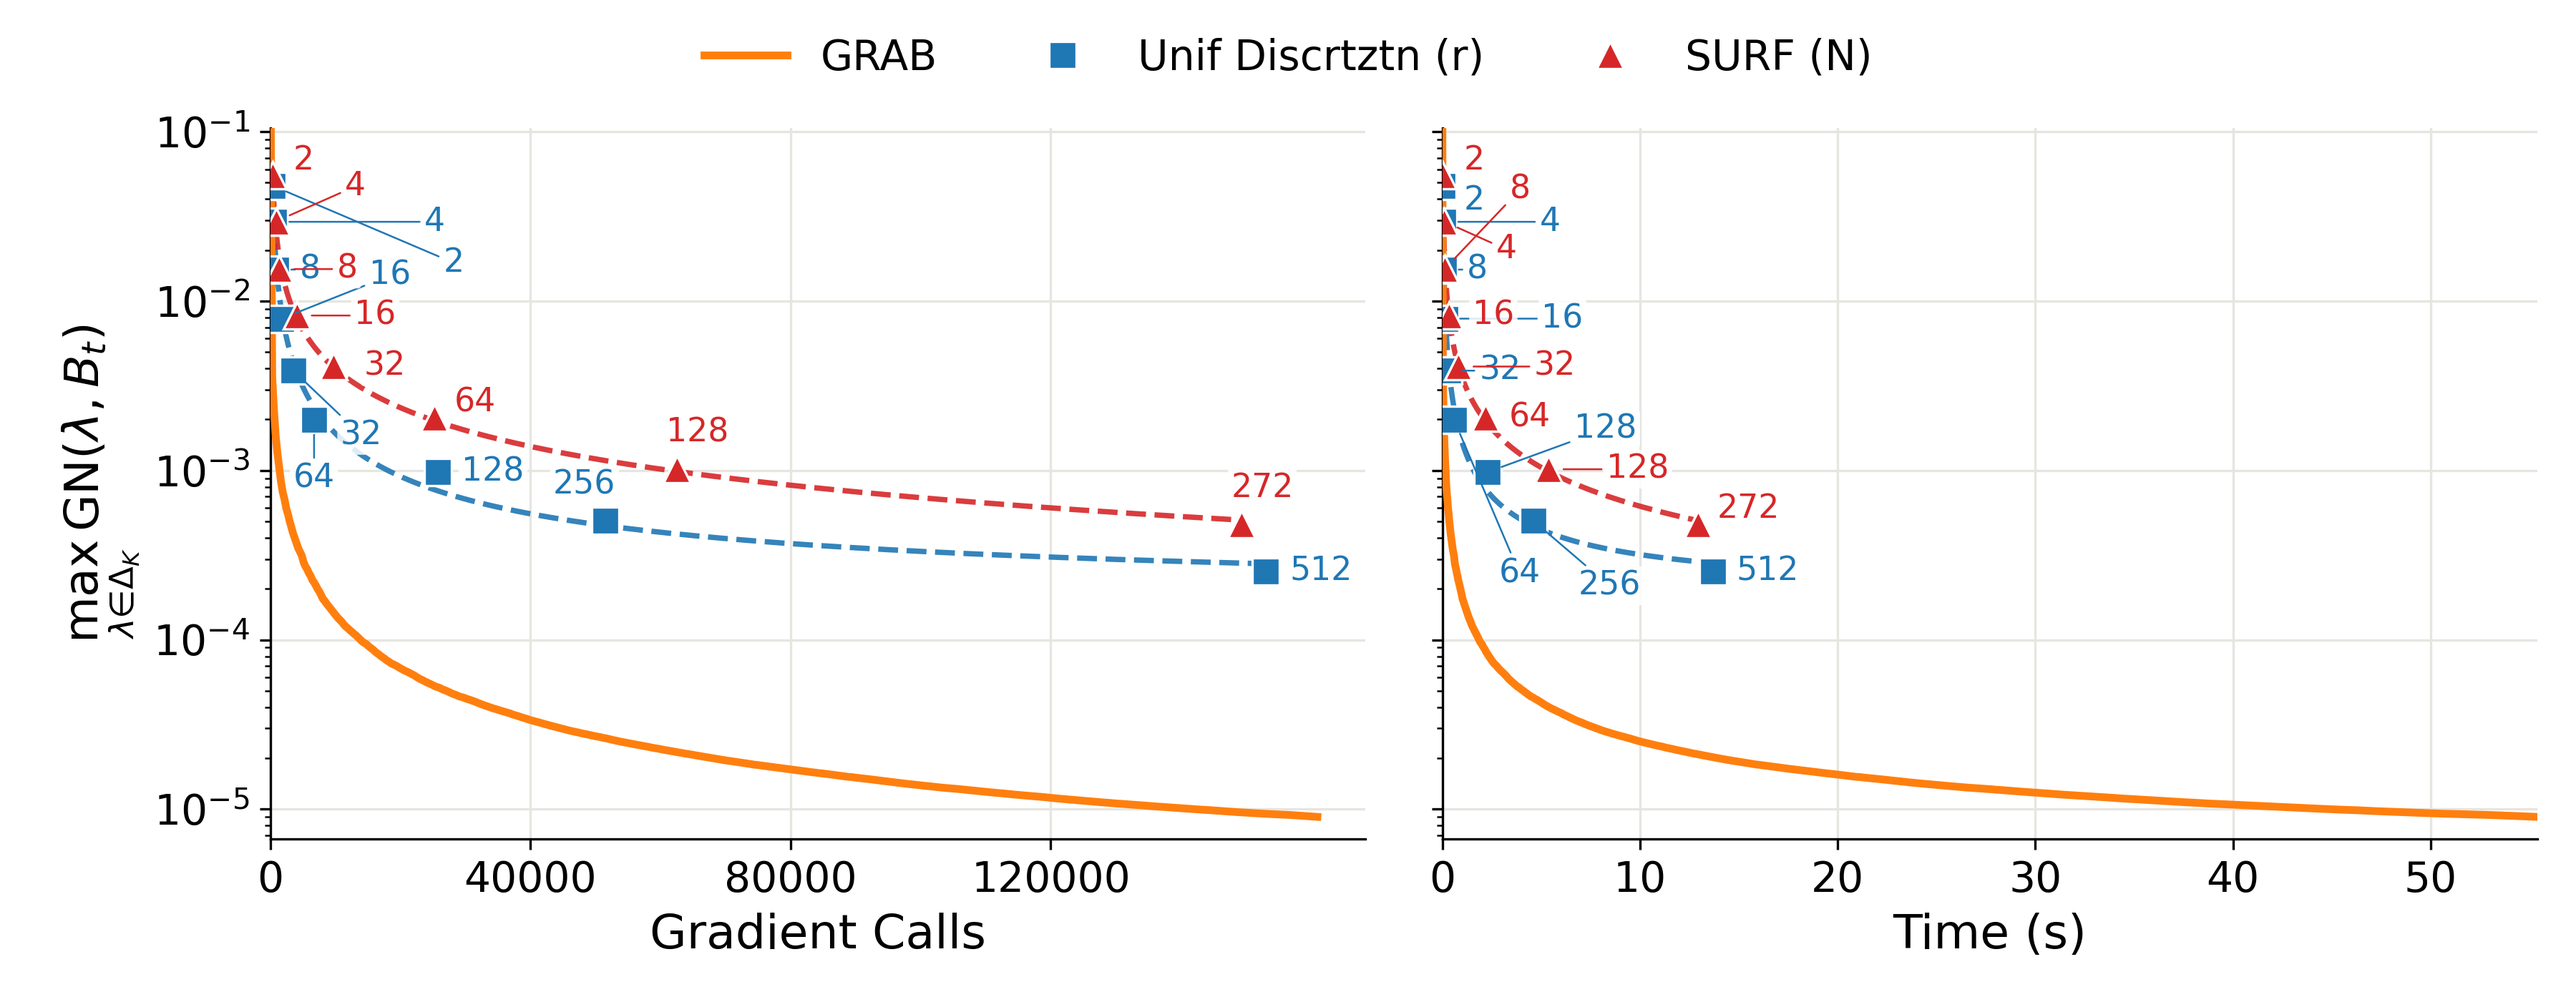
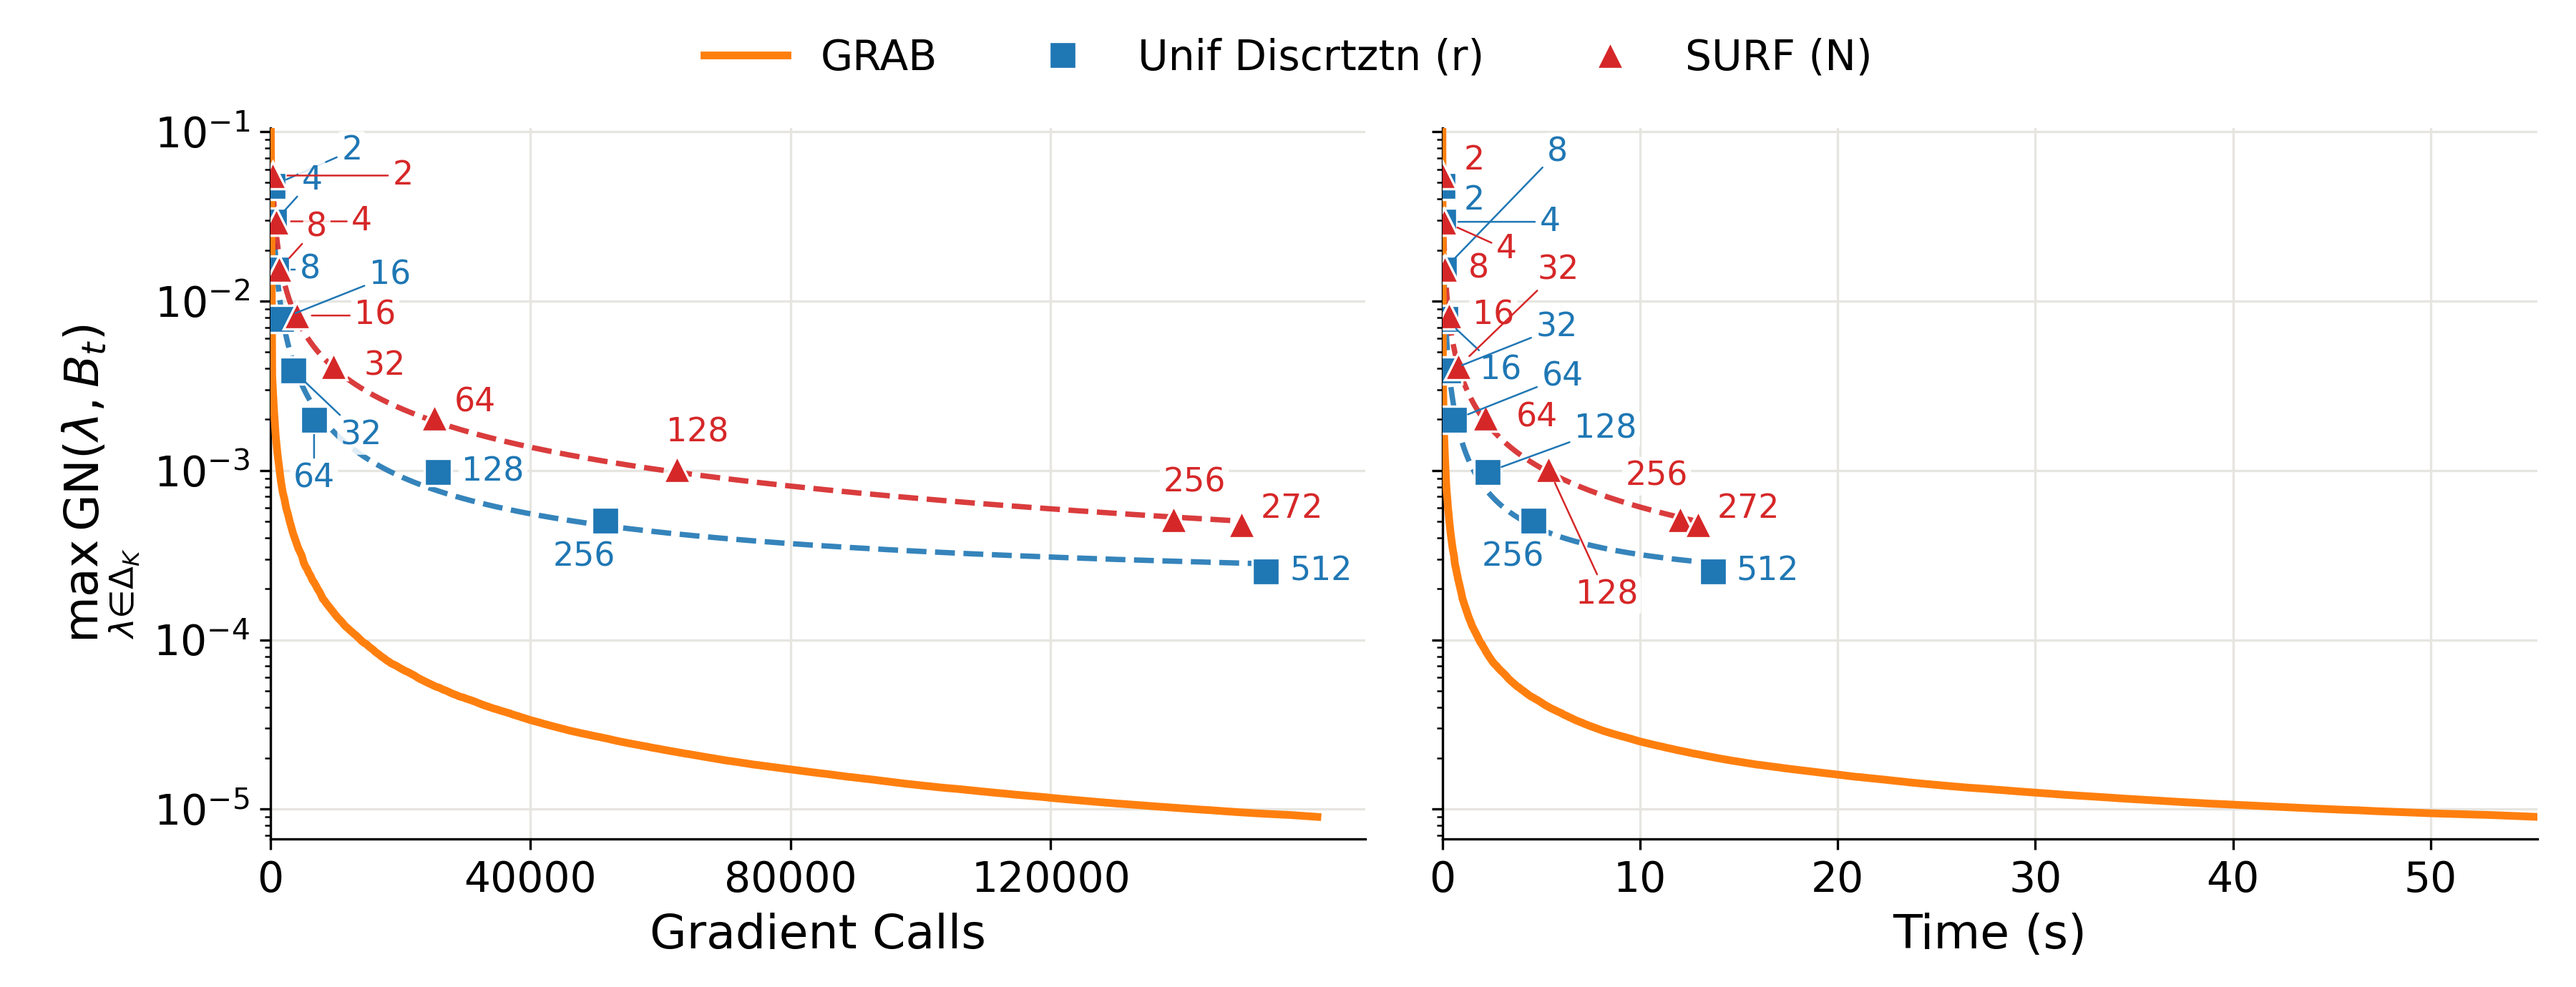
FishWood SURF: add N=256, whose point lies within the budget (GRAB selection unchanged)

diff --git a/mogym/config.py b/mogym/config.py
@@ -16,7 +16,7 @@ MAX_ROUNDS = 1000           # SURF safety cap
 ADAM_KEEP_TOL = .005        # a weight counts as unchanged if it moves by at most this in every coordinate
 POINT_BAND = .05            # plotted point: earliest checkpoint after which the GN stays within 5% of the value at stopping
 
-# Values of r and N: FishWood r = 2, 4, ..., 512 and N = 2, 4, ..., 128; Fruit Tree r = 1, ..., 6.  One fixed budget B
+# Values of r and N: FishWood r = 2, 4, ..., 512 and N = 2, 4, ..., 256; Fruit Tree r = 1, ..., 6.  One fixed budget B
 # per task, the same for all methods: 1.05 x the Gradient Calls of the farthest of these points (as measured before B
 # was fixed: FishWood Uniform r=512, Fruit Tree r=6), rounded up to a multiple of 1e3 (FishWood) or 6e3 (Fruit Tree).
 # Checkpoints of every method follow one Gradient-Call schedule: every B/600 (K=2) or B/120 (K=6) calls up to B, 10x
@@ -27,7 +27,7 @@ POINT_BAND = .05            # plotted point: earliest checkpoint after which the
 TASKS = {
     "fishwood": dict(
         uniform=dict(M=50, lr=.03, values=[2, 4, 8, 16, 32, 64, 128, 256, 512]),
-        surf=dict(K_S=25, lr=.03, values=[2, 4, 8, 16, 32, 64, 128, 272]),
+        surf=dict(K_S=25, lr=.03, values=[2, 4, 8, 16, 32, 64, 128, 256, 272]),
         adaptive=dict(inner_steps=2, lr=.03, lambda_method="envelope", checkpoint_count=600),
         budget=161000, every=268),
     "fruittree_d6": dict(

diff --git a/README.md b/README.md
@@ -113,14 +113,14 @@ Tasks are `fishwood` and `fruittree_d6` (no SURF). Each run script accepts `--va
 - Every Uniform r and SURF N is a separate run. It stops once its per-sweep (per-round) GN has changed by at most 1% three times in a row, the run is ready, and three further sweeps (rounds) confirm the plateau.
   - Ready means: the 95th percentile of the gradient norms at the policies' own weights is at most max(1e-5, 0.25·GN). For SURF the slot weights must also have settled.
 - The plotted point: among the Gradient-Call checkpoints before the stop and the stopping checkpoint, the earliest after which the GN stays within 5% of its value at stopping. Gradient Calls, CPU time and GN are read from that checkpoint.
-- A run is plotted if its point lies within B. The values are r = 2, 4, …, 512 and N = 2, 4, …, 128 (FishWood) and r = 1, …, 6 (Fruit Tree); FishWood SURF also uses N = 272, the largest multiple of 16 whose point lies within B, so that one SURF point lies near the end of the budget. The next values (FishWood r=1024 and N=288, Fruit Tree r=7) have their point beyond B.
+- A run is plotted if its point lies within B. The values are r = 2, 4, …, 512 and N = 2, 4, …, 256 (FishWood) and r = 1, …, 6 (Fruit Tree); FishWood SURF also uses N = 272, the largest multiple of 16 whose point lies within B, so that one SURF point lies near the end of the budget. The next values (FishWood r=1024 and N=288, Fruit Tree r=7) have their point beyond B.
 - `check_doubling.py` reruns every plotted run for twice its length; in the reported runs the GN changed by less than 1.9% after the stop (between −1.54% and +1.88%).
 
 **Settings** (`mogym/config.py`):
 
 | Task | Uniform | SURF | GRAB | Budget B |
 |---|---|---|---|---|
-| FishWood | M_U=50, lr 0.03, r = 2,4,…,512 | K_S=25, lr 0.03, N = 2,4,…,128 and 272 | M_A=2, lr 0.03, envelope | 161,000 |
+| FishWood | M_U=50, lr 0.03, r = 2,4,…,512 | K_S=25, lr 0.03, N = 2,4,…,256 and 272 | M_A=2, lr 0.03, envelope | 161,000 |
 | Fruit Tree (d=6) | M_U=1, lr 0.03, r = 1,…,6 | – | M_A=5, lr 0.03, periodic CCP | 150,000 |
 
 The Fruit Tree preference selector is the multistart CCP of paper Algorithm 2 with these settings:
